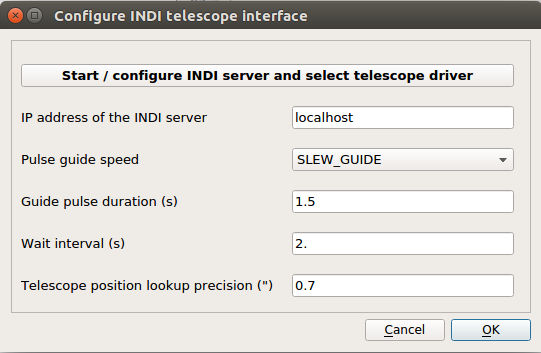
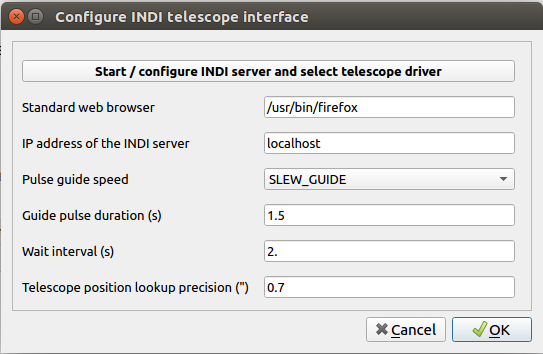
Added parameter "Standard web browser" for INDI case.

Changed region(s): [[0.0, 0.0, 1.0, 0.966], [0.976, 0.9037, 1.0, 0.966], [0.976, 0.0, 1.0, 0.0312]]

diff --git a/Source/indi_configuration_editor.py b/Source/indi_configuration_editor.py
@@ -34,7 +34,7 @@ class IndiConfigurationEditor(QtWidgets.QDialog, Ui_INDIDialog):
 
     """
 
-    def __init__(self, configuration, new_indi_server_url, new_indi_pulse_guide_speed_index,
+    def __init__(self, configuration, new_web_browser_path, new_indi_server_url, new_indi_pulse_guide_speed_index,
                  new_indi_guiding_interval, new_indi_wait_interval,
                  new_indi_telescope_lookup_precision, parent=None):
         """
@@ -42,6 +42,7 @@ class IndiConfigurationEditor(QtWidgets.QDialog, Ui_INDIDialog):
         fields of the editor gui.
 
         :param configuration: object containing parameters set by the user
+        :param new_web_browser_path: Absolute Path to the web browser executable
         :param new_indi_server_url: URL of the INDI server process
         :param new_indi_pulse_guide_speed_index: index of the pulse guide speed chooser combobox
         :param new_indi_guiding_interval: duration of guiding pulses (sec.)
@@ -56,6 +57,7 @@ class IndiConfigurationEditor(QtWidgets.QDialog, Ui_INDIDialog):
         self.c = configuration
 
         # Fill the gui text fields with the current parameters
+        self.input_web_browser_path.setText(new_web_browser_path)
         self.input_indi_server_url.setText(new_indi_server_url)
         guide_speeds = ["SLEW_GUIDE", "SLEW_CENTERING", "SLEW_FIND", "SLEW_MAX"]
         self.pulse_guide_speed_chooser.addItems(guide_speeds)
@@ -73,6 +75,7 @@ class IndiConfigurationEditor(QtWidgets.QDialog, Ui_INDIDialog):
 
         # Connect changes to the gui text fields with the methods below.
         self.configure_server.clicked.connect(self.open_indi_manager)
+        self.input_web_browser_path.textChanged.connect(self.web_browser_path_write)
         self.input_indi_server_url.textChanged.connect(self.indi_server_url_write)
         self.pulse_guide_speed_chooser.currentIndexChanged.connect(self.pulse_guide_speed_write)
         self.input_guiding_interval.textChanged.connect(self.guiding_interval_write)
@@ -134,16 +137,23 @@ class IndiConfigurationEditor(QtWidgets.QDialog, Ui_INDIDialog):
                         "other program.")
                     return
 
-            # 'indi-web' is running. Open the URL in the standard web browser.
+            # 'indi-web' is running. Check if the web browser path exists,
+            #  and open the URL in the standard web browser.
+            if not os.path.exists(str(self.input_web_browser_path.text())):
+                Miscellaneous.show_detailed_error_message(
+                    "The standard web browser cannot be launched.",
+                    "The parameter 'Standard web browser' is wrong. Please make sure that it "
+                    "points to a web browser executable, e.g. '/usr/bin/firefox'.")
+                return
             try:
                 import subprocess
-                subprocess.Popen(["/usr/bin/firefox", "http://" + server_url + ":8624"])
+                subprocess.Popen([str(self.input_web_browser_path.text()), "http://" + server_url + ":8624"])
                 self.configuration_changed = True
                 self.telescope_changed = True
             except:
                 if self.c.protocol_level > 0:
-                    Miscellaneous.protocol("Unable to access the indi-web manager. Please check"
-                                           " the INDI installation.")
+                    Miscellaneous.show_detailed_error_message("Unable to access the indi-web manager.",
+                                    "Please check the standard web browser path and the INDI installation.")
 
         else:
             # The given URL is invalid. Issue an error message and exit.
@@ -156,6 +166,16 @@ class IndiConfigurationEditor(QtWidgets.QDialog, Ui_INDIDialog):
 
     # The following methods are invoked if a text field is changed by the user.
     def indi_server_url_write(self):
+        """
+        If the parameter has been changed, set the appropriate configuration change flags to True.
+
+        :return: -
+        """
+
+        self.telescope_changed = True
+        self.configuration_changed = True
+
+    def web_browser_path_write(self):
         """
         If the parameter has been changed, set the appropriate configuration change flags to True.
 
@@ -211,9 +231,15 @@ class IndiConfigurationEditor(QtWidgets.QDialog, Ui_INDIDialog):
         :return: -
         """
         if self.configuration_changed:
+            # Check if the web browser path entered is valid. If it is not, give an example
+            # of a valid path.
+            if not os.path.exists(str(self.input_web_browser_path.text())):
+                Miscellaneous.show_input_error("Standard web browser", "/usr/bin/firefox")
+                return
+
             # Check if the URL entered is valid. If it is not, give an example of a valid URL.
             if not Miscellaneous.testipaddress(str(self.input_indi_server_url.text())):
-                Miscellaneous.show_input_error("URL of the INDI server", "'localhost'")
+                Miscellaneous.show_input_error("URL of the INDI server", "localhost")
                 return
 
             # Check if the float entered is within the given bounds [0., 3.]. If the return value

diff --git a/Source/configuration_editor.py b/Source/configuration_editor.py
@@ -140,6 +140,7 @@ class ConfigurationEditor(QtWidgets.QDialog, Ui_ConfigurationDialog):
         self.new_ascom_telescope_lookup_precision = self.c.conf.get('ASCOM',
                                                                     'telescope lookup precision')
 
+        self.new_web_browser_path = self.c.conf.get('INDI', 'web browser path')
         self.new_indi_server_url = self.c.conf.get('INDI', 'server url')
         self.new_indi_pulse_guide_speed_index = self.c.conf.get('INDI', 'pulse guide speed index')
         self.new_indi_guiding_interval = self.c.conf.get('INDI', 'guiding interval')
@@ -419,7 +420,8 @@ class ConfigurationEditor(QtWidgets.QDialog, Ui_ConfigurationDialog):
 
         from indi_configuration_editor import IndiConfigurationEditor
 
-        self.indieditor = IndiConfigurationEditor(self.c, self.new_indi_server_url,
+        self.indieditor = IndiConfigurationEditor(self.c, self.new_web_browser_path,
+                                                  self.new_indi_server_url,
                                                   self.new_indi_pulse_guide_speed_index,
                                                   self.new_indi_guiding_interval,
                                                   self.new_indi_wait_interval,
@@ -434,6 +436,7 @@ class ConfigurationEditor(QtWidgets.QDialog, Ui_ConfigurationDialog):
             # Mark the configuration object as changed.
             self.configuration_changed = True
             # Copy back the current gui values.
+            self.new_web_browser_path = str(self.indieditor.input_web_browser_path.text())
             self.new_indi_server_url = str(self.indieditor.input_indi_server_url.text())
             self.new_indi_pulse_guide_speed_index = str(
                 self.indieditor.pulse_guide_speed_chooser.currentIndex())
@@ -716,6 +719,7 @@ class ConfigurationEditor(QtWidgets.QDialog, Ui_ConfigurationDialog):
 
             if self.indieditor_called:
                 # If the IndiEditor was called, copy back the current new values.
+                self.c.conf.set("INDI", "web browser path", self.new_web_browser_path)
                 self.c.conf.set("INDI", "server url", self.new_indi_server_url)
                 self.c.conf.set("INDI", "pulse guide speed index",
                                 self.new_indi_pulse_guide_speed_index)

diff --git a/Source/configuration.py b/Source/configuration.py
@@ -222,6 +222,7 @@ class Configuration:
             self.conf.set('ASCOM', 'telescope lookup precision', '0.5')
 
             self.conf.add_section('INDI')
+            self.conf.set('INDI', 'web browser path', '/usr/bin/firefox')
             self.conf.set('INDI', 'server url', 'localhost')
             self.conf.set('INDI', 'guiding interval', '1.5')
             self.conf.set('INDI', 'wait interval', '2.')
@@ -404,6 +405,7 @@ class Configuration:
                 self.conf.remove_option('ASCOM', 'hub')
 
                 self.conf.add_section('INDI')
+                self.conf.set('INDI', 'web browser path', '/usr/bin/firefox')
                 self.conf.set('INDI', 'server url', 'localhost')
                 self.conf.set('INDI', 'guiding interval', '1.5')
                 self.conf.set('INDI', 'wait interval', '2.')
